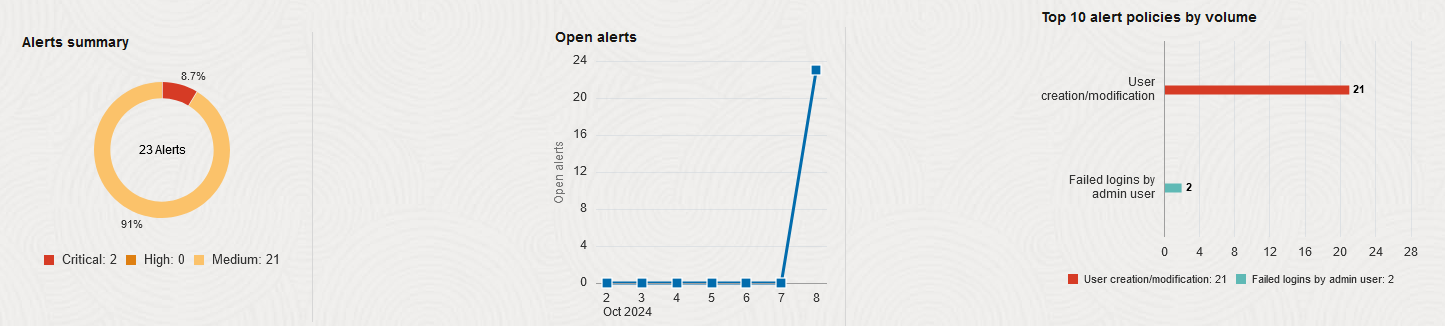
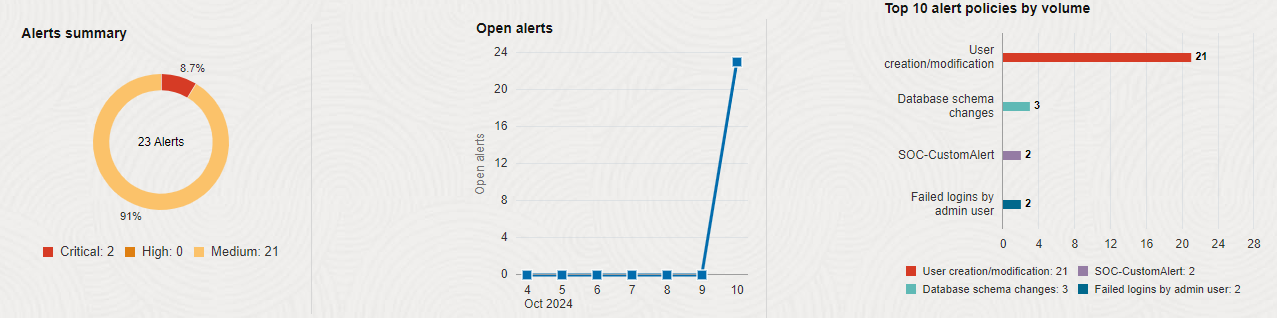
Activity Auditing wizard updates
updated screenshots and tested for error

diff --git a/data-safe/audit-database-activity/audit-database-activity.md b/data-safe/audit-database-activity/audit-database-activity.md
@@ -41,7 +41,7 @@ This lab assumes you have:
 
 3. Click **Configure auditing and alerts** to start the Activity Auditing wizard.
 
-4. For **Alert policy**, do the following, and then click **Next**.
+4. For **Alert policy**, do the following to enable alert policies, and then click **Next**.
 
     a) Select your target database. The list of available alert policies is displayed.
 
@@ -71,7 +71,7 @@ This lab assumes you have:
 
     ![Activity Auditing wizard - Audit trails](images/activity-auditing-wizard-audit-trails.png "Activity Auditing wizard - Audit Trails")
 
-7. For **Audit profile**, leave the default selections for retention period and paid usage as is (see below), and click **Next**.
+7. For **Audit profile**, leave the default selections for the retention periods and paid usage as is (see below), and click **Next**.
 
     - Audit data online retention months = 12
     - Audit data offline retention months = 0
@@ -92,8 +92,6 @@ This lab assumes you have:
     
     ![Activity Auditing wizard - Audit configuration progress](images/activity-auditing-wizard-audit-configuration-progress.png "Activity Auditing wizard - Audit configuration progress")
     
-    ![Activity Auditing wizard - Audit configuration progress errors](images/audit-configuration-progress-errors.png "Activity Auditing wizard - Audit configuration progress errors")
-
 
 10. Click **Close**.
 
@@ -166,8 +164,8 @@ In this task, you perform activities on your target database in Database Actions
     - At the bottom of the report, you can view the list of alerts. By default, the table shows you the alert name, alert status, alert severity, target databases on which the audited event occurred, when the alert was created, and the alert policy rule name.
     - You have options to create a PDF or XLS report, create a custom report, schedule a custom report, open and close alerts, and specify which table columns you want displayed on the page.
 
-    ![All alerts report1](images/all-alerts-report1.png "All alerts report1")
-    ![All alerts report2](images/all-alerts-report2.png "All alerts report2")
+    ![All alerts report top](images/all-alerts-report-top.png "All alerts report top")
+    ![All alerts report bottom](images/all-alerts-report-bottom.png "All alerts report bottom")
 
 
 ## Task 4: Review audit events in Oracle Data Safe
@@ -178,9 +176,9 @@ In this task, you perform activities on your target database in Database Actions
 
 3. On the **Events summary** tab, click one of the event categories, for example, **Login failures by admin** to view more detail.
    
-    ![Login failures](images/login-failures.png "Login failures")
+    ![Login failures report - top](images/login-failures-top.png "Login failures report - top")
+    ![Login failures report - bottom](images/login-failures-bottom.png "Login failures report - bottom")
 
- 
 
 You may now **proceed to the next lab**.
 
@@ -192,4 +190,4 @@ You may now **proceed to the next lab**.
 ## Acknowledgements
 
 * **Author** - Jody Glover, Consulting User Assistance Developer, Database Development
-* **Last Updated By/Date** - Jody Glover, October 9, 2024
+* **Last Updated By/Date** - Jody Glover, October 10, 2024
